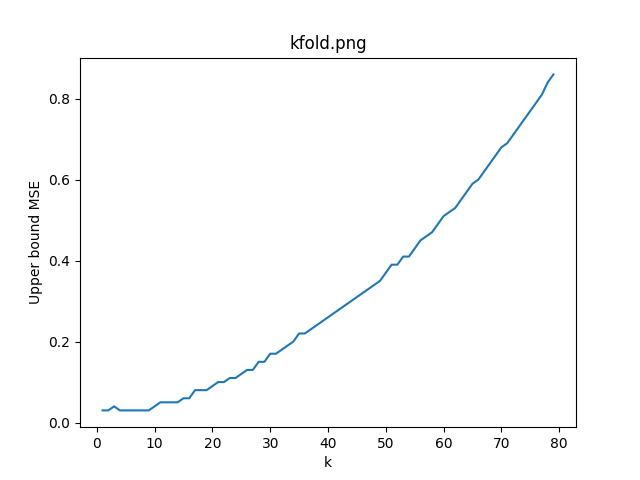
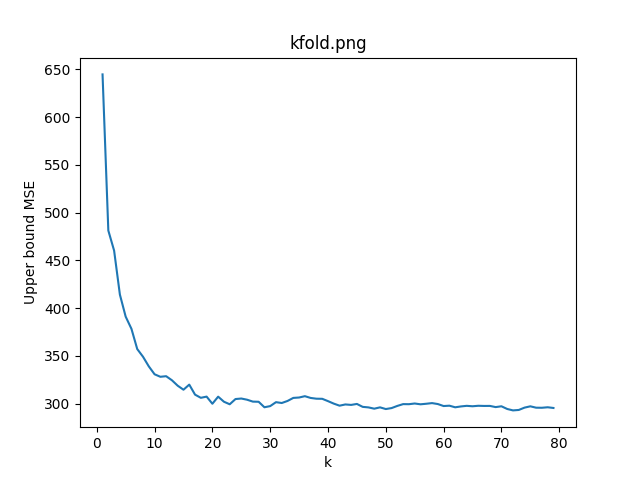
challenge

diff --git a/src/aim_machine_learning/parameter_tuning.py b/src/aim_machine_learning/parameter_tuning.py
@@ -64,9 +64,9 @@ class ParametersTuner():
 
             best_params={params_keys[0]:-1,params_keys[1]:-1}
 
-            for a in k_dict[params_keys[0]]:
+            for b in k_dict[params_keys[1]]:
 
-                for b in k_dict[params_keys[1]]:
+                for a in k_dict[params_keys[0]]:
 
                     mod_eval=ModelEvaluator(self.model_class,{'a':a,'b':b}, self.X, self.y)
 
@@ -87,7 +87,6 @@ class ParametersTuner():
                         best_params[params_keys[0]]=a 
                         best_params[params_keys[1]]=b 
 
-        
         if len(self.output_path)>0 and fig_name is not None:
 
             plt.figure()
@@ -97,9 +96,11 @@ class ParametersTuner():
                 plt.xlabel(my_k)
             
             else:
-                plt.plot(k_dict[params_keys[0]],np.array(results))
-                plt.xlabel('a')
-
+                results=np.array(results).reshape(len(list(k_dict[params_keys[1]])),len(list(k_dict[params_keys[0]])))
+                for i in range(len(list(k_dict[params_keys[1]]))): #si cicla sul secondo parametro(lo si tiene fissato nel plot) così da rendere corretto l'output presente nel main
+                    plt.plot(k_dict[params_keys[0]],results[i,:],label='{} = {}'.format(params_keys[1],k_dict[params_keys[1]][i]))
+                    plt.xlabel(params_keys[0])
+                plt.legend()
 
             plt.title(fig_name)
             plt.ylabel('Upper bound MSE')
